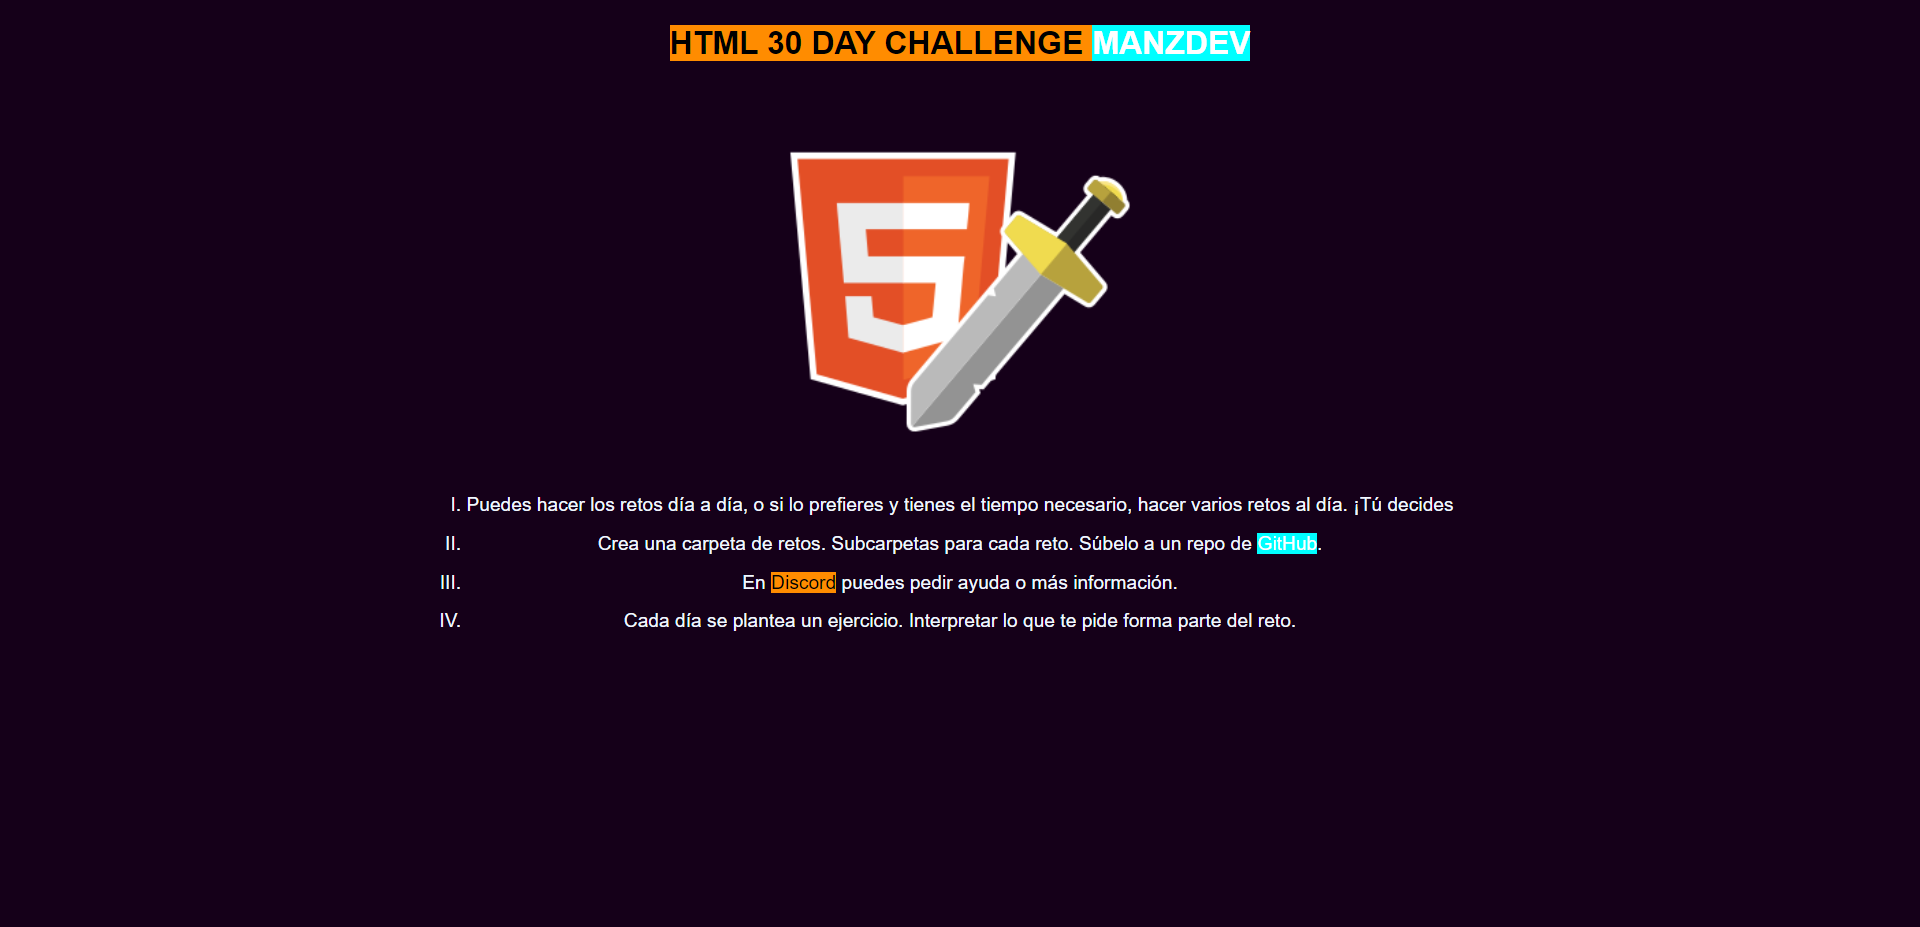
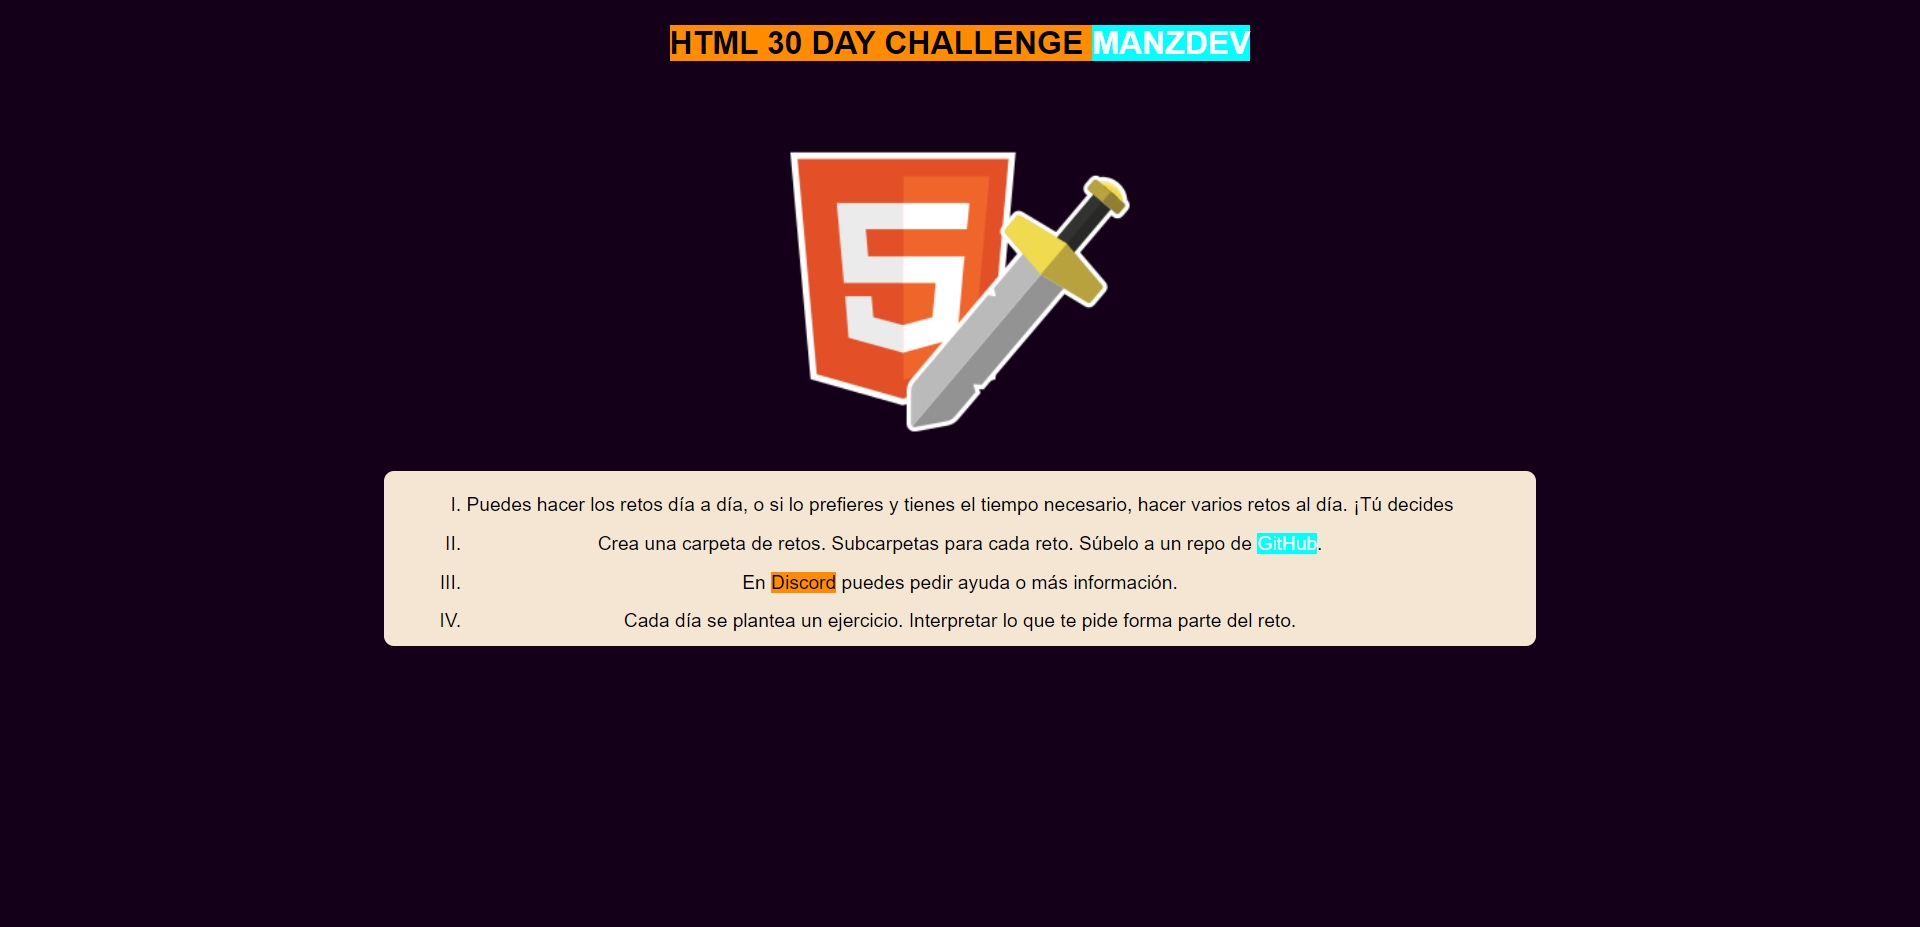
reto 9

Changed region(s): [[0.1875, 0.4833, 0.8125, 0.6947]]

diff --git a/Reto_9/styles.css b/Reto_9/styles.css
@@ -31,16 +31,20 @@ img {
   flex-direction: column;
   align-items: center;
   justify-content: center;
-  width: 80%;
+  width: 60%;
   margin: 0 auto;
   text-align: center;
   padding-top: 20px;
+  background-color: #f4e6d2;
+  color: black;
+  border-radius: 10px;
+  margin-bottom: 20px;
+
 }
 
 .title-text {
   margin-bottom: 20px;
 }
-
 
 
 h2 {
